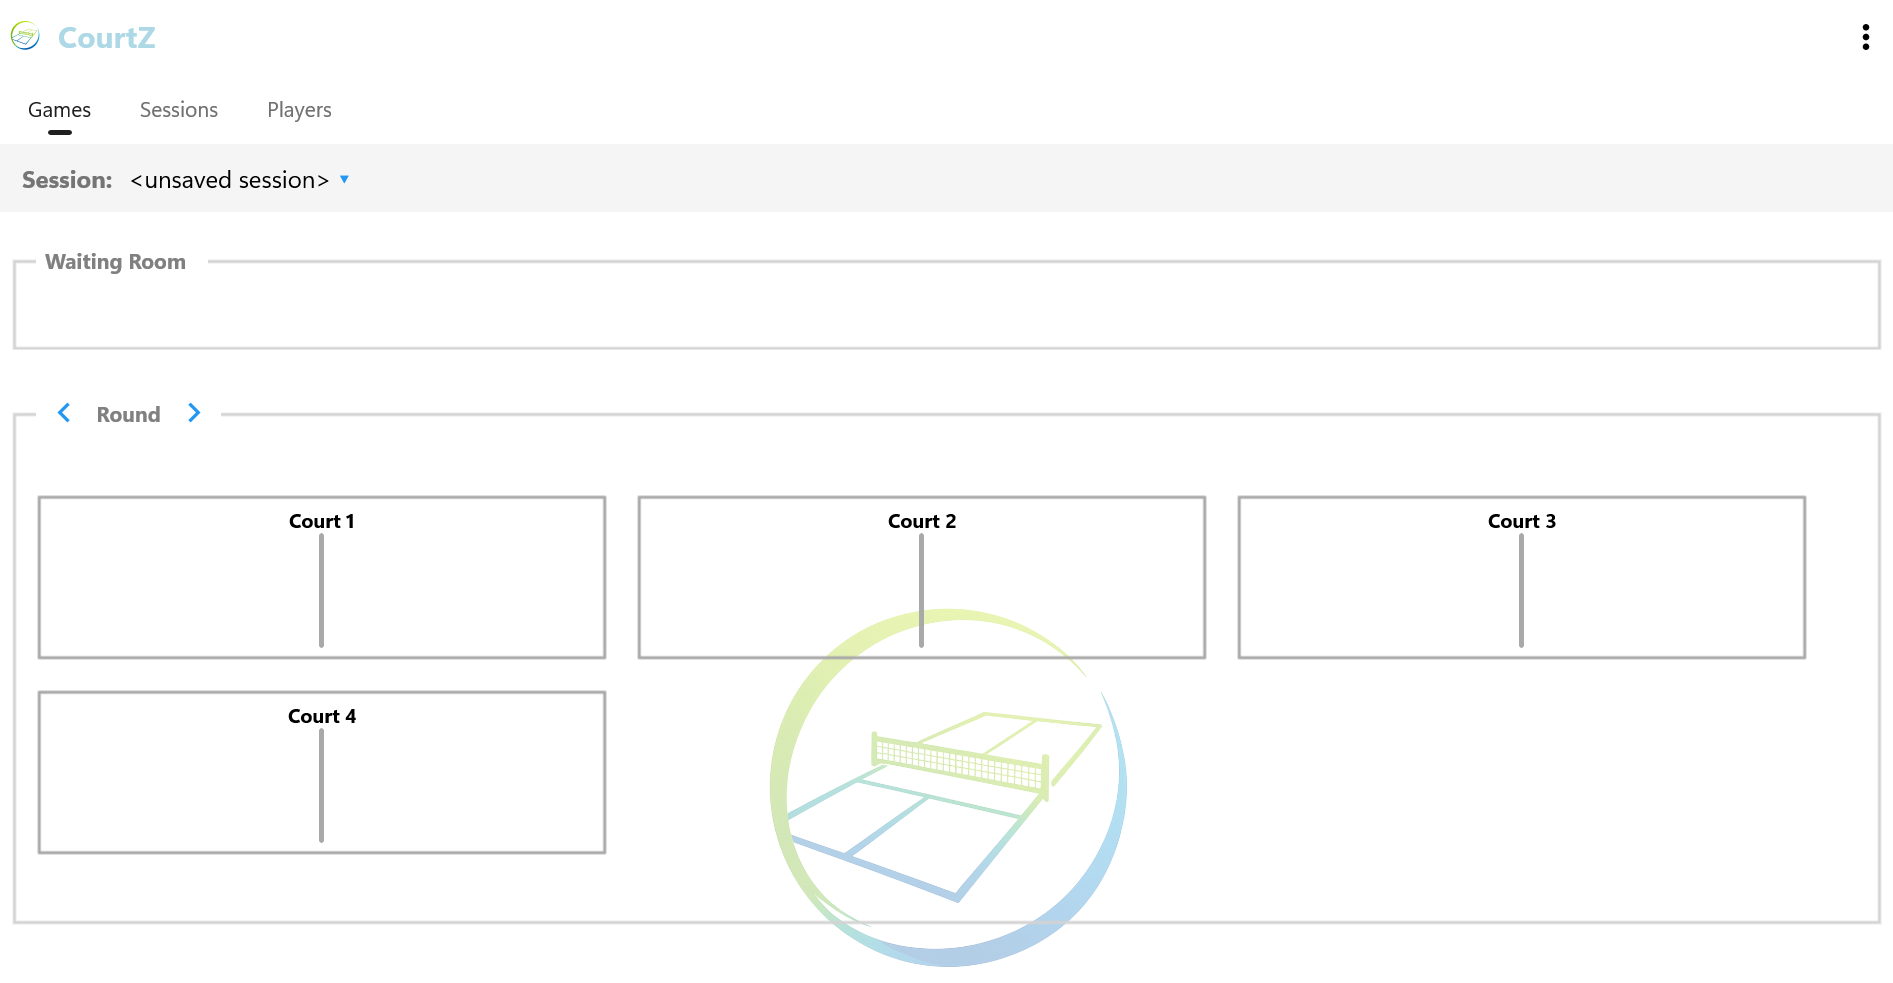
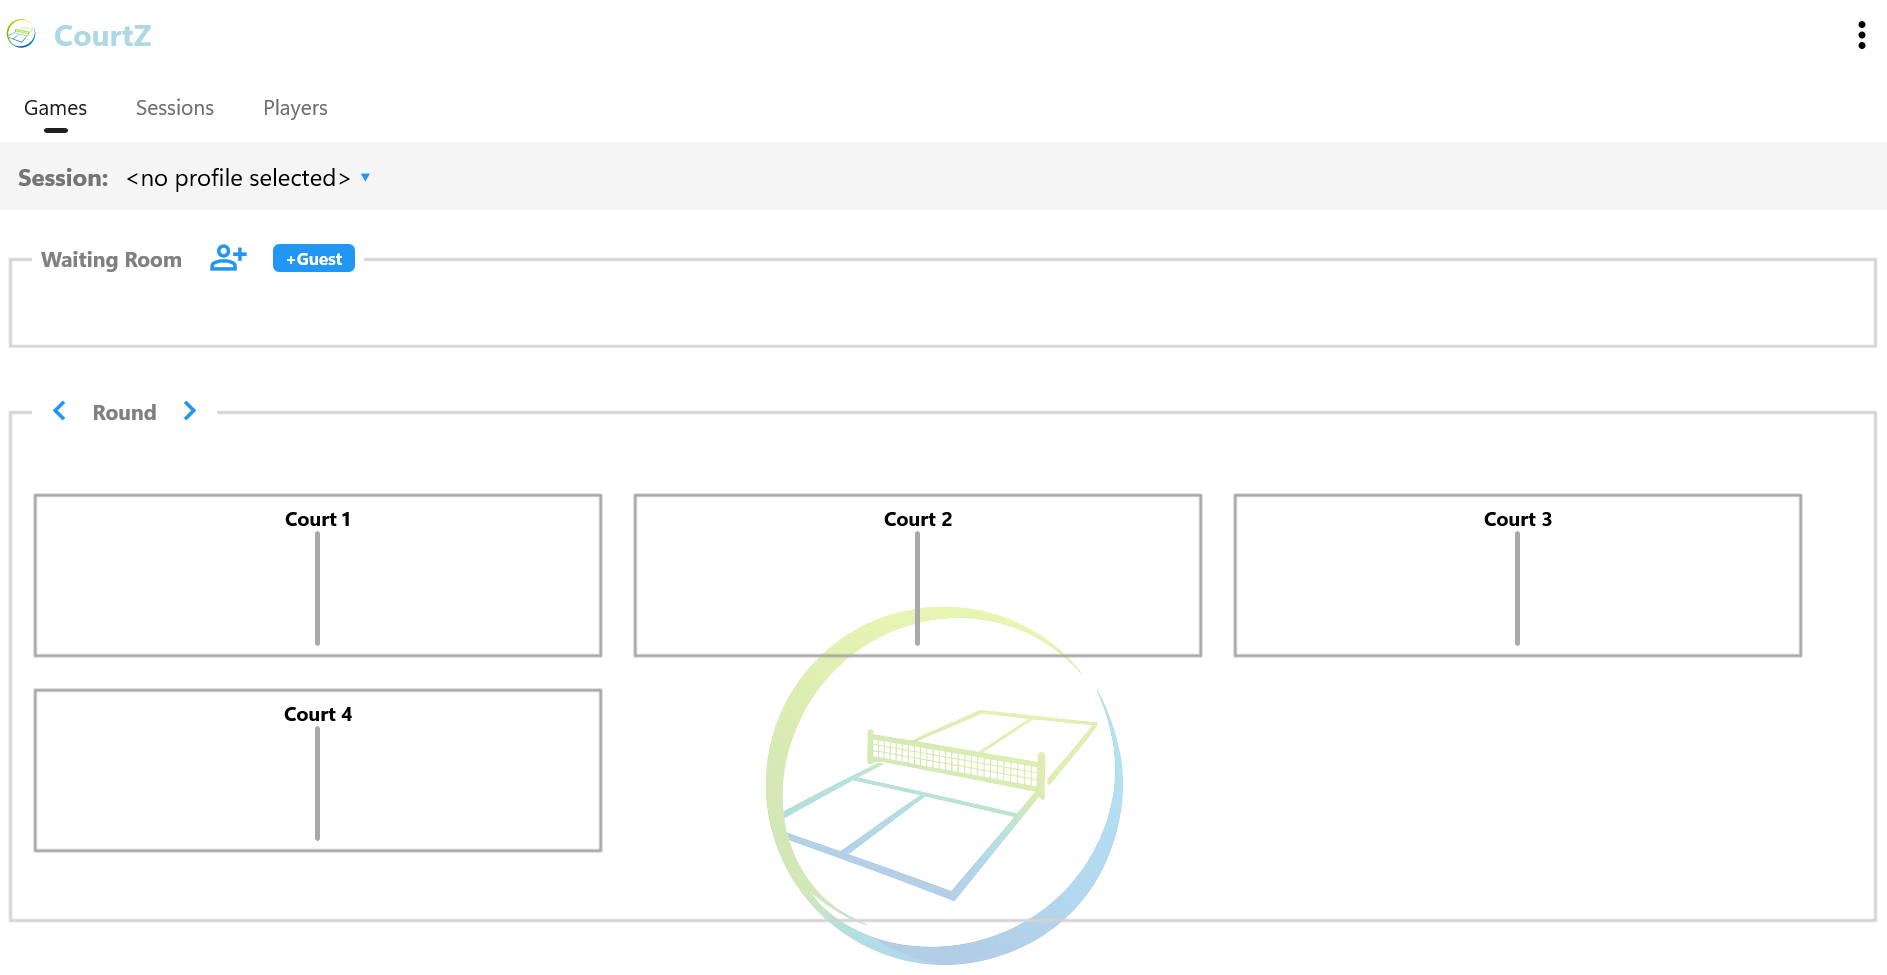
v3.3.x

diff --git a/help/04-running-a-session.md b/help/04-running-a-session.md
@@ -30,6 +30,7 @@ Use the Attendance dialog to prepare today's session by:
 - clearing players who are absent
 - adding players from the master player list
 - adding guest players
+- optionally setting the Expected Games for attending players
 
 When the player list is complete, select **Start Session**.
 
@@ -67,7 +68,7 @@ When everyone has been added, select the <span class="nav-icon">+</span> button 
 
 CourtZ creates today's session and allocates players to the available courts. If there are more players than available court spaces, the remaining players stay in the Waiting Room.
 
-When a session is started without using a Session Profile, the session name displays as **`<unsaved session>`**. This indicates that the session is using the default game settings rather than those stored in a Session Profile.
+When a session is started without using a Session Profile, the session name displays as **`<no profile selected>`**. This indicates that the session is using the default game settings rather than those stored in a Session Profile.
 
 Players can be added directly to the Waiting Room from the master player list or as guest players before play begins.
 
@@ -102,6 +103,19 @@ CourtZ uses the Waiting Room whenever new games are generated, automatically mov
      width="900">
 
 *The Waiting Room contains players waiting for their next game. As courts become available, CourtZ automatically selects players from the Waiting Room when generating the next round.*
+
+### Expected Games
+
+You can optionally specify how many games an attending player expects to play.
+
+Tap a player's status icon to set or adjust their Expected Games.
+
+- **Tick** – the player is attending.
+- **Stopwatch** – the player has an Expected Games value set.
+
+Expected Games can be set to **1**, **2**, **3**, **4** or **Any** (expected number of games is unspecified).
+
+Players with an Expected Games target are prioritised during round generation to help them reach their expected number of games. When a player reaches their target, CourtZ provides the option to remove them before the next round is generated.
 
 ### Removing a Player from the Waiting Room
 

diff --git a/help/03-session-profiles.md b/help/03-session-profiles.md
@@ -141,7 +141,7 @@ Tap a player's status icon to set or adjust their Expected Games.
 - **Tick** – the player is attending.
 - **Stopwatch** – the player has an Expected Games value set.
 
-Expected Games can be set to **1, 2, 3, 4, or Any**.
+Expected Games can be set to **1**, **2**, **3**, **4** or **Any** (expected number of games is unspecified).
 
 Players with an Expected Games target are prioritised during round generation to help them reach their expected number of games. When a player reaches their target, CourtZ provides the option to remove them before the next round is generated.
 
